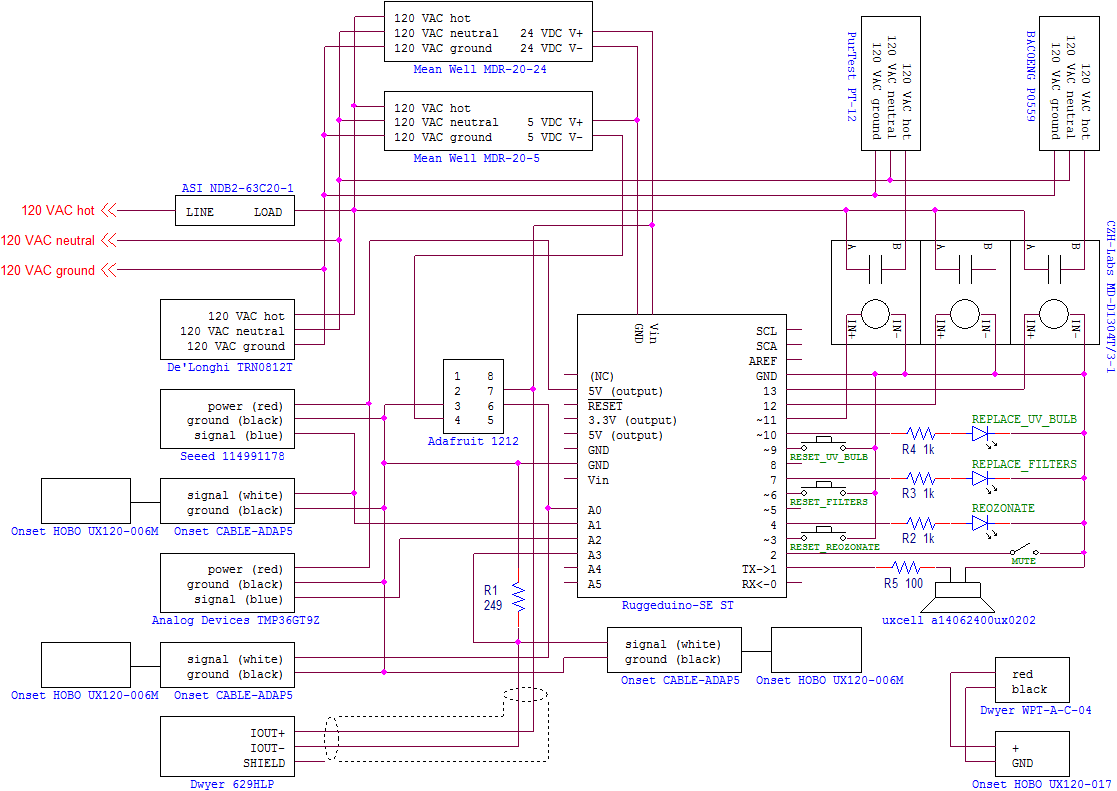
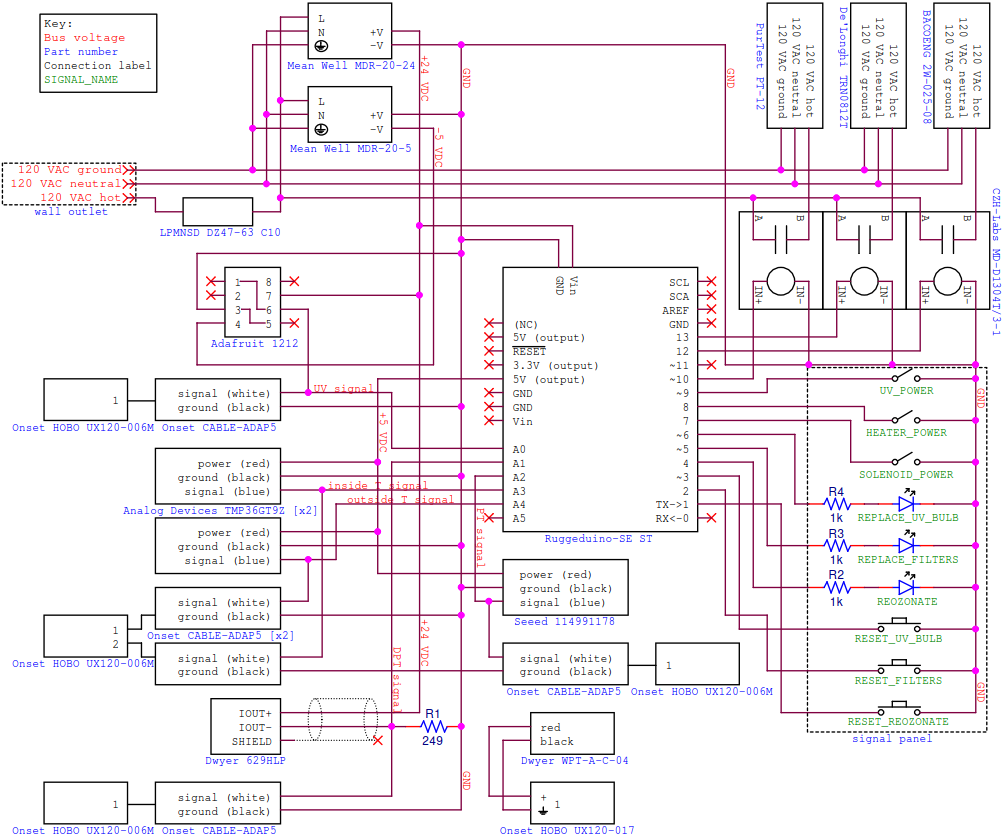
Update to final design.

diff --git a/README.md b/README.md
@@ -1,15 +1,15 @@
-## Milli-microcontroller  
+## Sneedville_Milli-microcontroller  
 
   Program for the Ruggeduino in the system-monitoring design originally developed for the Cedar Grove Baptist Church clean water
-  project in Sneedville. The 'master' branch now contains a simplified version that lacks the freeze protection features that are
-  specialized to the Sneedville implementation. The code and other relevant files will be updated and maintained as part of a
-  senior design project for the 2020 spring semester at the following GitHub repository:  
+  project in Sneedville. The code and other relevant files will be updated and maintained as part of a senior design project for
+  the 2020 spring semester at the following GitHub repository:  
   <br>
-  https://github.com/Milligan-Engineering/Milli-microcontroller  
+  https://github.com/jjgiesey/Sneedville_Milli-microcontroller  
   <br>
-  The Sneedville specialization of this project is now maintained as its own fork on GitHub:  
+  The generic version of the project that lacks the freeze protection features that are specialized to the Sneedville
+  implementation is maintained in a different GitHub repository:  
   <br>
-  https://github.com/Milligan-Engineering/Sneedville_Milli-microcontroller  
+  https://github.com/Milligan-Engineering/Milli-microcontroller 
   <br>
   Should the project require maintenance/changes/improvements/additions in the future, this repository should serve as a
   reference for other contributors.  
@@ -39,8 +39,8 @@
 ###### Repository structure
 *********************************************************************************************************************************
 
-  - All code is in the C programming language and is contained within the single file 'Milli-microcontroller.ino', located in the
-    same directory as this README  
+  - All code is in the C programming language and is contained within the single file 'SneedvilleMilli-microcontroller.ino',
+    located in thesame directory as this README  
   - 'electrical_box_layout.png' is the electrical box layout and can be updated with the CAD file 'electrical_box_layout.dwg'  
   - 'electrical-overview.png' is a schematic that gives an overview of all electrical connections for the Cedar Grove project  
   - The 'electrical-overview_orcad_project' folder contains an OrCAD Capture project that can be used to update the schematic  
@@ -54,20 +54,18 @@
 
   - Ruggeduino-SE ST microcontroller
       - https://www.rugged-circuits.com/microcontroller-boards/ruggeduino-se-special-edition-mpdes
-  - ASI NDB2-63C20-1 circuit breaker
-      - https://www.asi-ez.com/member/~NDB2-63C20-1.asp
-  - Mean Well MDR-20-24 power supply (+24 VDC)
+  - LPMNSD DZ47-63 C10 circuit breaker
+      - http://www.lpmnsd.com/en/Product/product_show.asp?did=1556
+  - Mean Well MDR-20-24 power supply [+24 VDC]
       - https://www.meanwell-web.com/en-gb/ac-dc-industrial-din-rail-power-supply-output-mdr--20--24
-  - Mean Well MDR-20-5 power supply (-5 VDC)
+  - Mean Well MDR-20-5 power supply [-5 VDC]
       - https://www.meanwell-web.com/en-gb/ac-dc-industrial-din-rail-power-supply-output-5vdc-mdr--20--5
   - PurTest PT-12 ultraviolet water disinfection system
       - https://purtest.com/wp-content/uploads/sites/7409/2018/05/PurTest-PT-Series_Service-Manual-November-2-2016.pdf
-  - BACOENG P0559 solenoid valve
+  - BACOENG 2W-025-08 solenoid valve
       - https://bacoeng.com/collections/solenoid-valve/products/ss-brass-dc12v-24v-ac110v-normally-closed-solenoid-valve
   - CZH-Labs MD-D1304T/3-1 three-channel relay module
       - https://czh-labs.com/czh-labs-din-rail-mount-3-channel-12-amp-solid-state-relay-ssr-module-in-432vdc-out-100240vac-p1245.html
-  - uxcell a14062400ux0202 piezo buzzer
-      - http://www.uxcell.com/pcs-324v-85db-sound-electronic-buzzer-alarm-black-12mm-p-608897.html
   - Adafruit 1212 surface-mount breakout board
       - https://www.adafruit.com/product/1212
   - De'Longhi TRN0812T electric oil filled radiator
